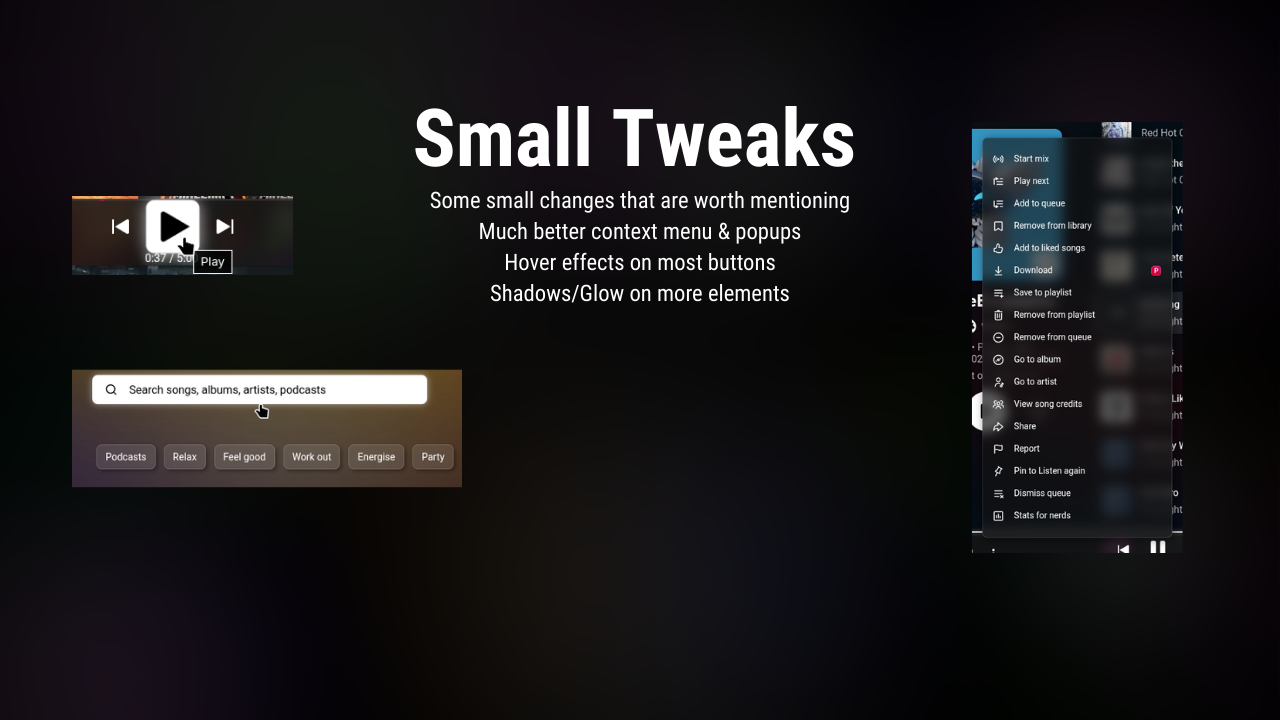
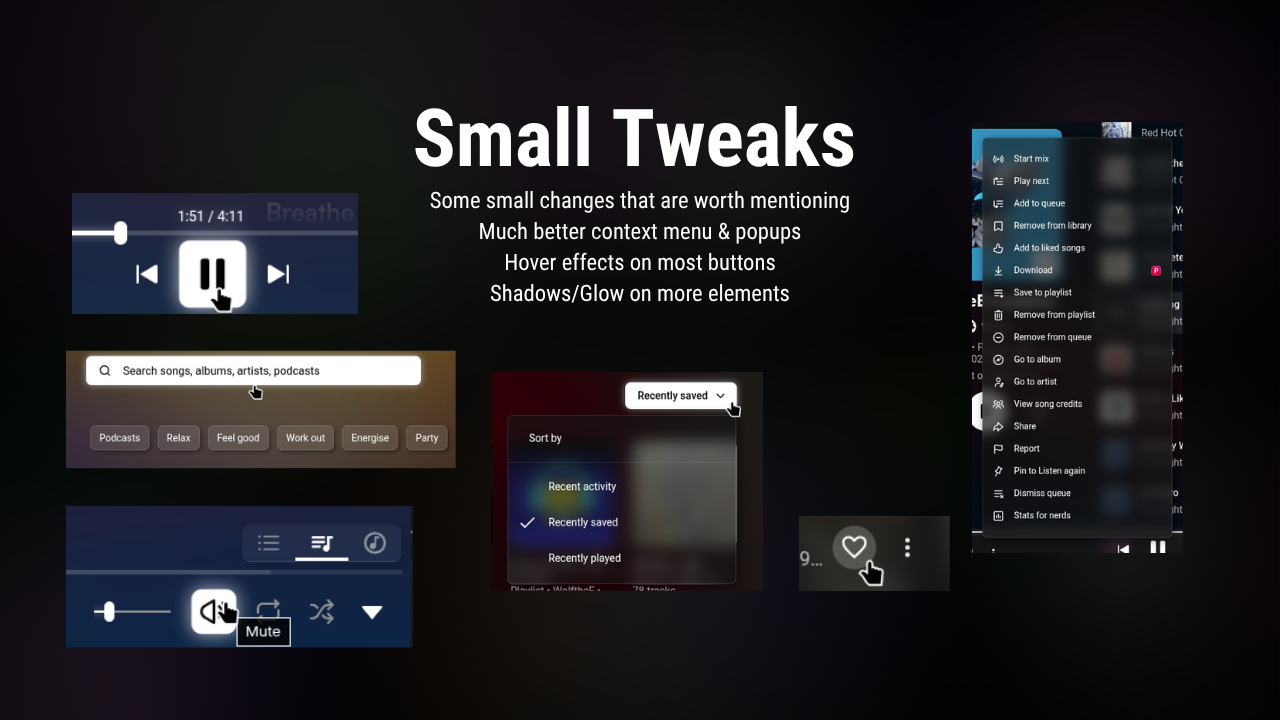
Version 1.4.0, Re-did center buttons and animations!

diff --git a/style.css b/style.css
@@ -7,6 +7,38 @@ https://github.com/tposejank/blyrics-am-theme
 https://github.com/chengggit/YouTube-Music-Dynamic-Theme
 */
 
+/* Animations here */
+@keyframes blyrics-wobble {
+	0% {
+		transform: translateY(0px) scaleX(1);
+	}
+    12.5% {
+      transform: scaleX(1.05);
+      animation-timing-function: ease-in-out;
+    }
+	75% {
+		transform: translateY(-0.1em) scaleX(1);
+	}
+	100% {
+		transform: translateY(0px) scaleX(1);
+        animation-timing-function: ease-out;
+	}
+}
+
+@keyframes blyrics-glow {
+  0% {
+    filter: drop-shadow(0 0 0.8rem var(--blyrics-glow-color));
+  }
+  65% {
+    filter: drop-shadow(0 0 0.2rem var(--blyrics-glow-color));
+  }
+  to {
+    filter: drop-shadow(0 0 0rem var(--blyrics-glow-color));
+  }
+}
+
+
+
 :root {
 
 /* change ytm logo bc why not 
@@ -53,6 +85,10 @@ https://github.com/chengggit/YouTube-Music-Dynamic-Theme
   .logo.ytmusic-logo {
     display: none;
   }*/
+
+
+
+
 
 
 
@@ -151,7 +187,7 @@ ytmusic-immersive-header-renderer[is-bauhaus-sidenav-enabled] .image.ytmusic-imm
   }
 
   ytmusic-app-layout:not([is-mweb-modernization-enabled])[player-fullscreened]:not([blyrics-dfs]) > [slot="player-page"] #main-panel > #blyrics-song-info > #blyrics-title {
-    font-size: 3.25em;
+    font-size: 2.5em;
     text-shadow: 0px 0px 20px rgba(255,255,255,0.35);
   }
 
@@ -213,6 +249,10 @@ ytmusic-immersive-header-renderer[is-bauhaus-sidenav-enabled] .image.ytmusic-imm
     border-bottom: 3px solid white;
   }
 
+  #tabsContent.tp-yt-paper-tabs>:not(#selectionBar):hover {
+    background: rgba(255,255,255,0.2);
+  }
+
 
 
 
@@ -243,19 +283,29 @@ ytmusic-immersive-header-renderer[is-bauhaus-sidenav-enabled] .image.ytmusic-imm
   .left-controls.ytmusic-player-bar {
       grid-area: middle;
       justify-content: center;
-      margin-bottom: 12px;
 
       .time-info {
+        transform: translateY(-20px);
         position: absolute;
-        bottom: -1px;
+        top: 0;
         margin: 0;
         padding: 0;
         border-radius: 50px;
         color: white;
-        padding-bottom: 8px;
+        padding-bottom: 0px;
         margin-left: 2px;
         text-shadow: 0 0 10px rgba(255,255,255,0.5);
       }
+  }
+
+  .play-pause-button {
+    background: white;
+    color: black !important;
+    border-radius: 50% !important;
+  }
+
+  .play-pause-button > button {
+    scale: 0.8;
   }
 
   /* Player buttons */
@@ -492,6 +542,13 @@ ytmusic-immersive-header-renderer[is-bauhaus-sidenav-enabled] .image.ytmusic-imm
       opacity: 1;
     }
   }
-  
+  /* Mobile view */
+  @media (max-width: 616px) {
+    tp-yt-paper-tabs.ytmusic-player-page {
+      background: rgba(255, 255, 255, 0.01) !important;
+      position: static !important;
+    }
+  }
   
 }
+
